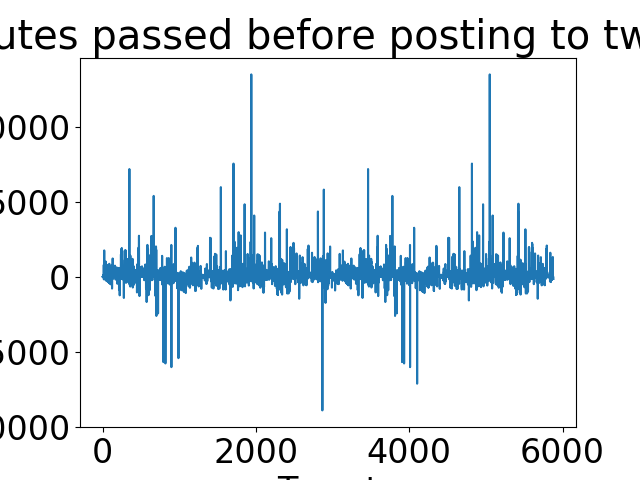
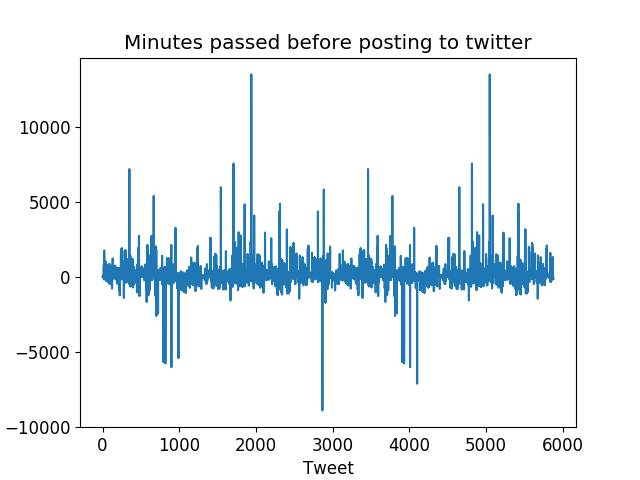
Plot improvements

diff --git a/wp3/master/urldate.py b/wp3/master/urldate.py
@@ -2,7 +2,7 @@ import os,pandas as pd,requests,re,time,numpy as np,matplotlib.pyplot as plt, se
 from bs4 import BeautifulSoup
 from datetime import datetime
 from collections import Counter
-matplotlib.rcParams.update({'font.size': 24})
+matplotlib.rcParams.update({'font.size': 12})
 
 data=pd.read_csv("datastories\wp3\data\@guardian_url.csv",encoding="ISO-8859-1")
 
@@ -18,11 +18,13 @@ def plots():
     plt.xlabel("Tweet")
     plt.ylabel("Minutes")
     plt.savefig("datastories\\wp3\\data\\@guardian_news2tweet.png")
+    plt.tight_layout()
     plt.close()
 
     plt.boxplot(data["url"].value_counts())
     plt.title("URL frequency boxplot")
     plt.savefig("datastories\\wp3\\data\\@guardian_urlfreq.png")
+    plt.tight_layout()
     plt.close()
 
 def main():
